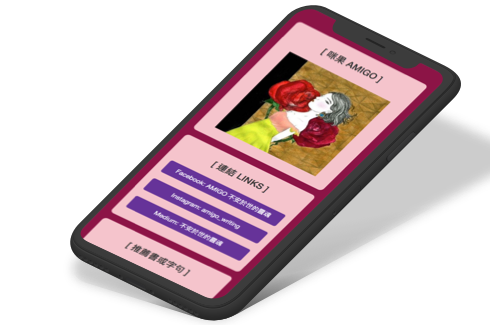
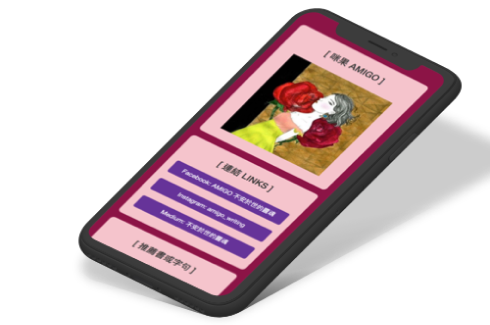
portfolio website

diff --git a/works/personalwebsite.html b/works/personalwebsite.html
@@ -5,14 +5,15 @@
 
 	<meta charset="UTF-8">
 	<meta name="viewport" content="width=device-width, initial-scale=1">
-	<title>Personal Website | YUCHING's Website</title>
+	<title>Portfolio Website | YUCHING's Website</title>
 	<link rel="shortcut icon" href="../img-new/favicon.png" />
 	<link rel="stylesheet" href="https://maxcdn.bootstrapcdn.com/bootstrap/4.0.0-beta/css/bootstrap.min.css"
 		integrity="sha384-/Y6pD6FV/Vv2HJnA6t+vslU6fwYXjCFtcEpHbNJ0lyAFsXTsjBbfaDjzALeQsN6M" crossorigin="anonymous">
 	<link href="https://fonts.googleapis.com/css?family=Raleway" rel="stylesheet">
 	<link rel="stylesheet" href="https://use.fontawesome.com/releases/v5.2.0/css/all.css"
 		integrity="sha384-hWVjflwFxL6sNzntih27bfxkr27PmbbK/iSvJ+a4+0owXq79v+lsFkW54bOGbiDQ" crossorigin="anonymous">
-	<link href="https://fonts.googleapis.com/css?family=Oregano|Fira+Sans|Patua+One|Roboto&display=swap" rel="stylesheet">
+	<link href="https://fonts.googleapis.com/css?family=Oregano|Source+Sans+Pro|Patua+One|Roboto&display=swap"
+		rel="stylesheet">
 	<link rel='stylesheet' href='../css/style.css' type='text/css' />
 	<link rel='stylesheet' href='../css/slick-theme.css' type='text/css' />
 	<link rel='stylesheet' href='../css/slick.css' type='text/css' />
@@ -68,12 +69,13 @@
 		<div class="topic" style="background-color: #FCF7E4">
 
 			<div class="container">
-				<h1>Personal Website</h1>
+				<h1>Portfolio Website</h1>
 				<div class="webintro">
-					<p>My Portfolio Website</p>
+					<p>This portfolio website is all designed and hand-coded by me.
+					</p>
 
 				</div>
-				<img src="./ruggon_img/page.png" alt="">
+				<img src="../img-new/md_forest.png" alt="">
 			</div>
 		</div>
 
@@ -84,13 +86,15 @@
 
 			<div class="list">
 				<h4>Overview</h4>
-				<!-- <p>RuggON Inc. sells tablet computers for military and industrial. Ubiqconn Inc. offers software
-					solutions for RuggON tablets. For example, we build an IoT cloud service for RuggON tablets so that
-					people can organize their devices, update software or firmware and remote monitor their devices on
-					it.</p>
-				<p>I am UI/UX, front-end designer in the Ubiqconn's Digital Connectivity Service Division. I corporate
-					with our manager to plan and design an IoT device management cloud service and an Android app on the
-					RuggON tablet.</p> -->
+				<p>Every time when I use my personal website as my portfolio for my job applications, the interviewers may
+					comment some feedback about it, such as “I don't know which work is the most important”, “Works should be the
+					most important part of your website”, or “Your category is not clear”. Therefore, it let me to embark on a
+					redesign journey.
+				</p>
+				<p>This website serves as a part of my job applications, and interviewers are the users. I collected all the
+					advice and found out the problems to have a new arrangement for my website. I appreciate every feedback I got
+					which become my stepping stone in improving my website for the better.
+				</p>
 			</div>
 
 			<div class="list point">
@@ -114,22 +118,76 @@
 
 
 			<div class="list">
-				<h4>Welcome! You are now in the second version of my portfolio website.</h4>
-				<p>Every time when I use my personal website as my portfolio for my job applications, the interviewers
-					may comment some feedback about it, such as “I don't know which work is the most important”, “Works
-					should be the most important part of your website”, or “Your category is not clear”. This website
-					serves as a tool for me to find a job easily, so interviewers are the users. I appreciate every
-					feedback I got which become my stepping stone in improving my website for the better.</p>
+				<h4>Redesign Qualitative Interviews</h4>
+				<p>“You did a great job. I can see you take it very seriously. However, there are some suggestions. When I went
+					to the website, I want to see your portfolio, the portfolio should be the most important part.”<br>
+					<b>- Blockchain Tech Lead, Male, 40 years old</b>
+				</p>
+
+				<p>“There are almost ten works on your website. Some of them are design work, and some of them are coding work.
+					The works’ category should be more clear. Besides, I don’t know which is the most important work. You should
+					highlight your favorite work.”
+					<br>
+					<b>- Project Manager, Female, 35 years old</b>
+				</p>
+
+				<p>“The color matching on your website doesn’t look nice. I felt a little dirty because your background is not
+					black enough. I think the color should be more clear.”
+
+					<br>
+					<b>- Software Engineer, 29 years old
+					</b>
+				</p>
 			</div>
 
 			<div class="seperate"> ·&nbsp;&nbsp;&nbsp;·&nbsp;&nbsp;&nbsp;·</div>
 
 
 			<div class="list">
-				<h4>Website Version 1 (2017-2018)</h4>
-				<p>This is the first version of my portfolio website. I choose this design because of its classic and
-					elegant facade. However, I need to enhance it more to ensure a user-friendly feature and I also have
-					to add distinctive ones for the users.</p>
+				<h4>Problems & Solutions</h4>
+				<p><b>(1) Works:</b><br>
+					Instead of putting a lot of introduction, skills, pictures on my index page, now I only put my works on my
+					index page to highlight the importance of portfolio. I put the others which less relevant to about page.
+					<br>
+					I reduce the number of works to ensure portfolio quality. Furthermore, I put a filter on my works. If users
+					want to see coding work, they can use the filter and it will show all of the coding work. </p>
+
+				<p><b>(2) Color: </b><br>
+					In the second version, I want to be professional, elegant and warm, so I change my color scheme. To reduce
+					interviewers’ cognitive loading, I use a white background, which is the same as most portfolio websites,
+					instead of a black background.
+				</p>
+			</div>
+
+			<div class="seperate"> ·&nbsp;&nbsp;&nbsp;·&nbsp;&nbsp;&nbsp;·</div>
+
+			<div class="list">
+				<h4>GitHub Page</h4>
+				<p>I hand-coded this website and deploy it to Github page. Besides, I host a custom domain on this. Therefore, I
+					can remotely add, commit or push to the Github repository and my changes will appear on my website.
+				</p>
+			</div>
+
+			<div class="seperate"> ·&nbsp;&nbsp;&nbsp;·&nbsp;&nbsp;&nbsp;·</div>
+
+
+			<div class="list">
+				<h4>Website Version 2 (2019/3-Now) </h4>
+				<p>You are now in my second version of my website, which I have redesign it according to the advice of
+					interviews. Hope you feel much better now! If you still have some suggestions, please feel free to tell me!
+				</p>
+
+
+			</div>
+
+			<div class="seperate"> ·&nbsp;&nbsp;&nbsp;·&nbsp;&nbsp;&nbsp;·</div>
+
+
+			<div class="list">
+				<h4>Website Version 1 (2017-2019/3)</h4>
+				<p>This is the first version of my portfolio website. I choose this design because of its classic and elegant
+					facade. However, I need to enhance it more to ensure a user-friendly feature and I also have to add
+					distinctive ones for the users.</p>
 
 
 			</div>
@@ -147,6 +205,10 @@
 
 
 			</div>
+
+
+
+
 
 
 

diff --git a/css/portfolio.css b/css/portfolio.css
@@ -93,7 +93,8 @@ body {
 
 .topic h1 {
         margin:0;
-        font-weight: 700;
+        font-weight: 500;
+        font-family: 'Patua One','Roboto';
 
 
     }
@@ -103,10 +104,11 @@ body {
 }
 
 #port .topic img {
-    max-width: 500px;
+    max-width: 300px;
     /* width:50%; */
-    height:400px;
-    /* margin-top: 30px; */
+    height:auto;
+    width:auto;
+    margin-top: 30px;
 
 }
 
@@ -117,15 +119,21 @@ body {
 
 .list h4 {
     color:#252525;
-    font-weight: 700;
+    font-weight: 400;
     margin:20px 0 20px 0 !important;
     font-size: 1.6em;
+    font-family: 'Patua One','Roboto';
 }
 
 .list {
     text-align: left;
     width: 60%; 
     margin:0 auto;
+}
+
+.list b {
+    font-weight: 1000;
+    font-family: serif;
 }
 
 .list.point p {
